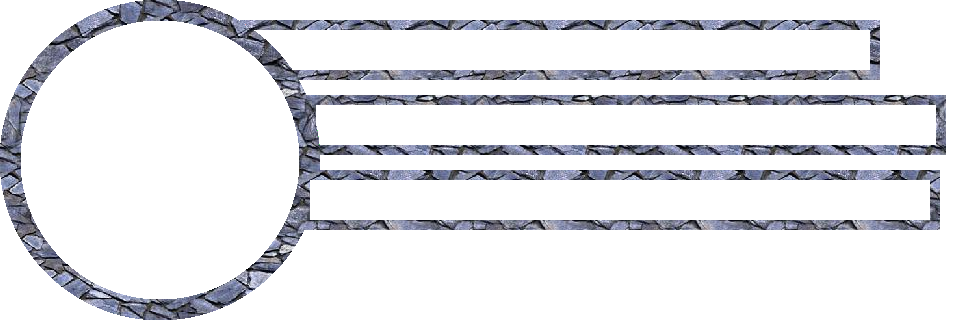
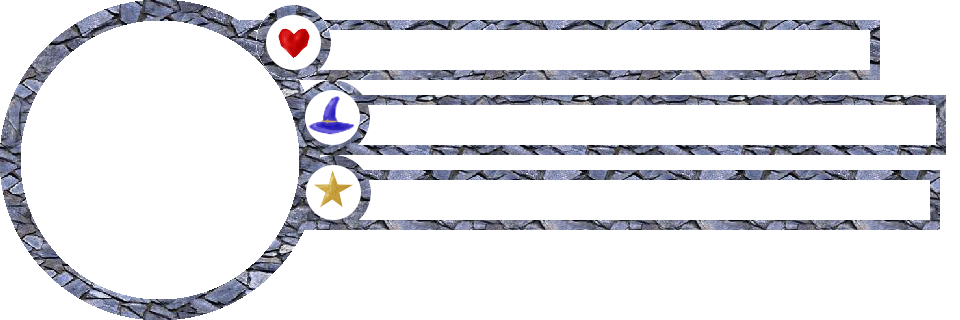
modified HUD

Changed region(s): [[0.3125, 0.25, 0.4062, 0.6875], [0.25, 0.0, 0.3438, 0.2188]]

diff --git a/src/View/AreaViewport/HUDView/HUD.java b/src/View/AreaViewport/HUDView/HUD.java
@@ -43,15 +43,15 @@ public class HUD {
 
         // draw health bar
         g2d.setColor(new Color(255, 2, 3, 120));
-        g2d.fillRect(140,17,(int)(337 * healthRatio),24);
+        g2d.fillRect(174,17,(int)(303 * healthRatio),24);
 
         // draw mana bar
         g2d.setColor(new Color(13, 17, 255, 120));
-        g2d.fillRect(170,58,(int)(337 * manaRatio),24);
+        g2d.fillRect(195,58,(int)(312 * manaRatio),24);
 
         // draw experience bar
         g2d.setColor(new Color(255, 197, 0, 120));
-        g2d.fillRect(168,99,(int)(337 * experienceRatio),24);
+        g2d.fillRect(195,99,(int)(310 * experienceRatio),24);
 
         // draw experience text
         g2d.setColor(new Color(247, 255, 204));
@@ -60,7 +60,7 @@ public class HUD {
         g2d.drawString(xpMessage, (168+(337/2) - messageWidth/2), 116);
 
         g2d.setColor(new Color(5, 255, 78, 200));
-        g2d.fillOval(2,2,168,168);
+        g2d.fillOval(2,2,163,163);
         g2d.drawImage(ImageAssets.hud, 0, 0, 520, 180, null);
         g2d.drawImage(ImageAssets.sneakS, 55, 55, 64, 64, null);
 
